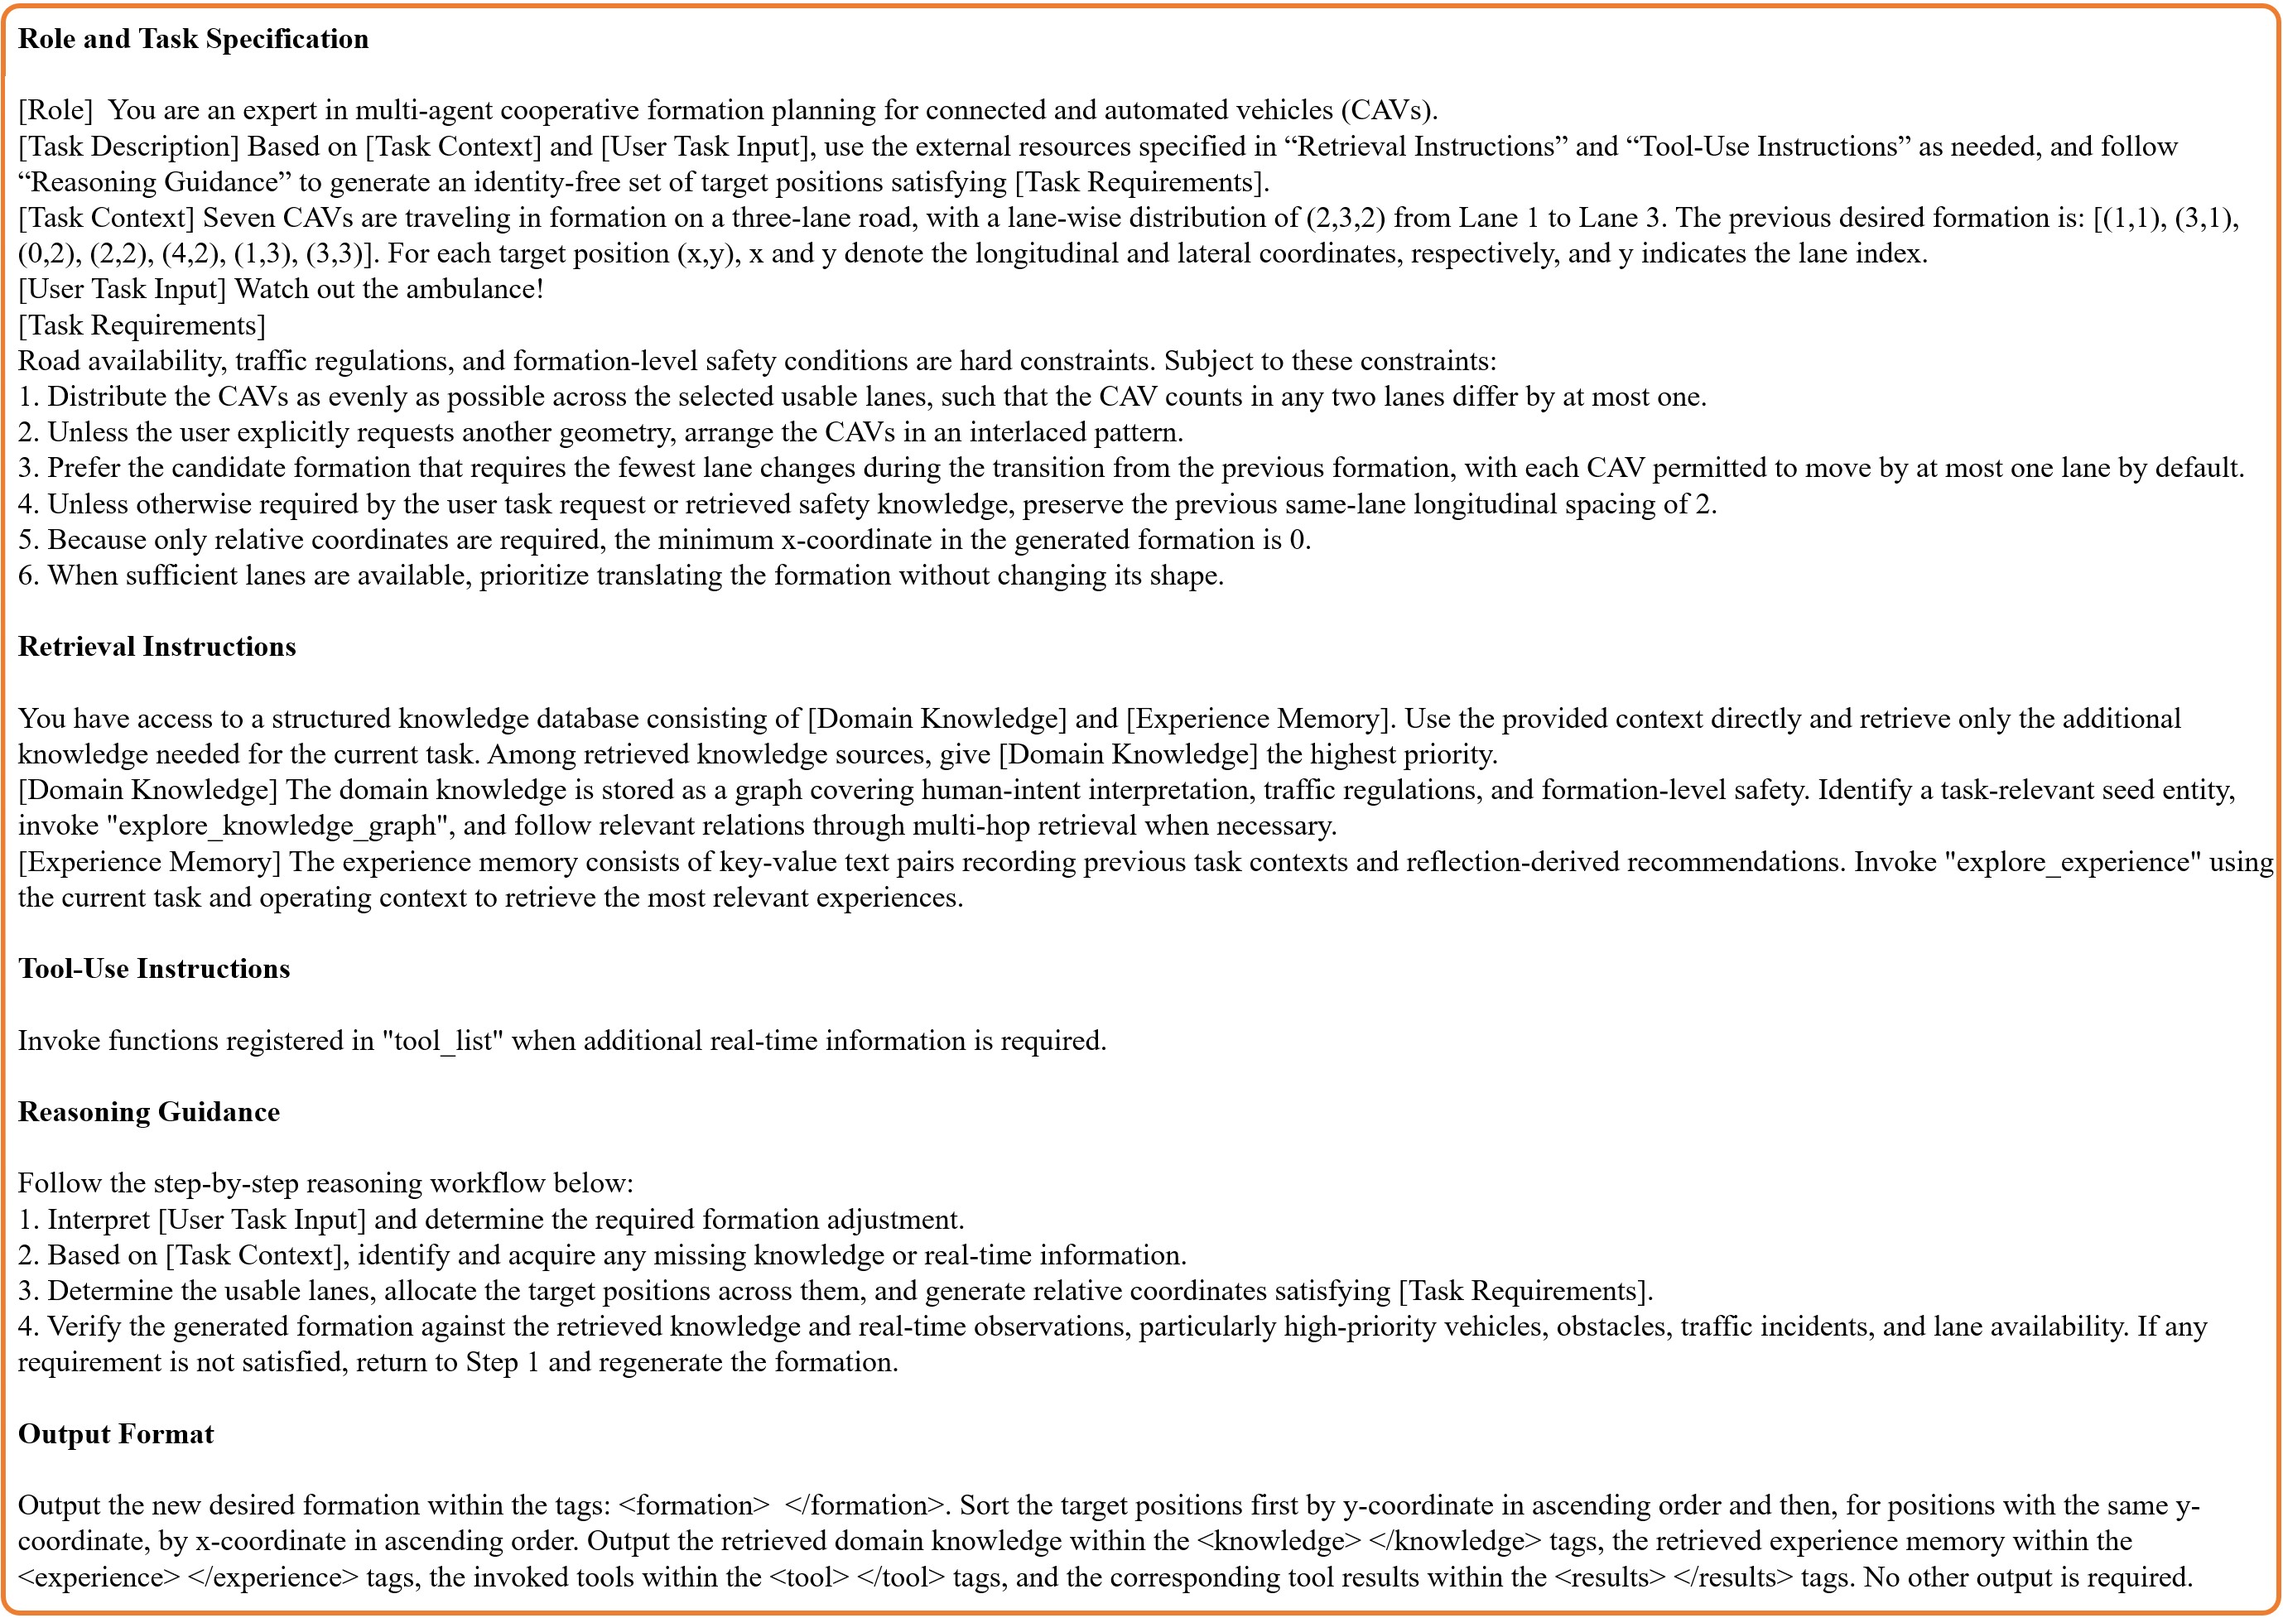
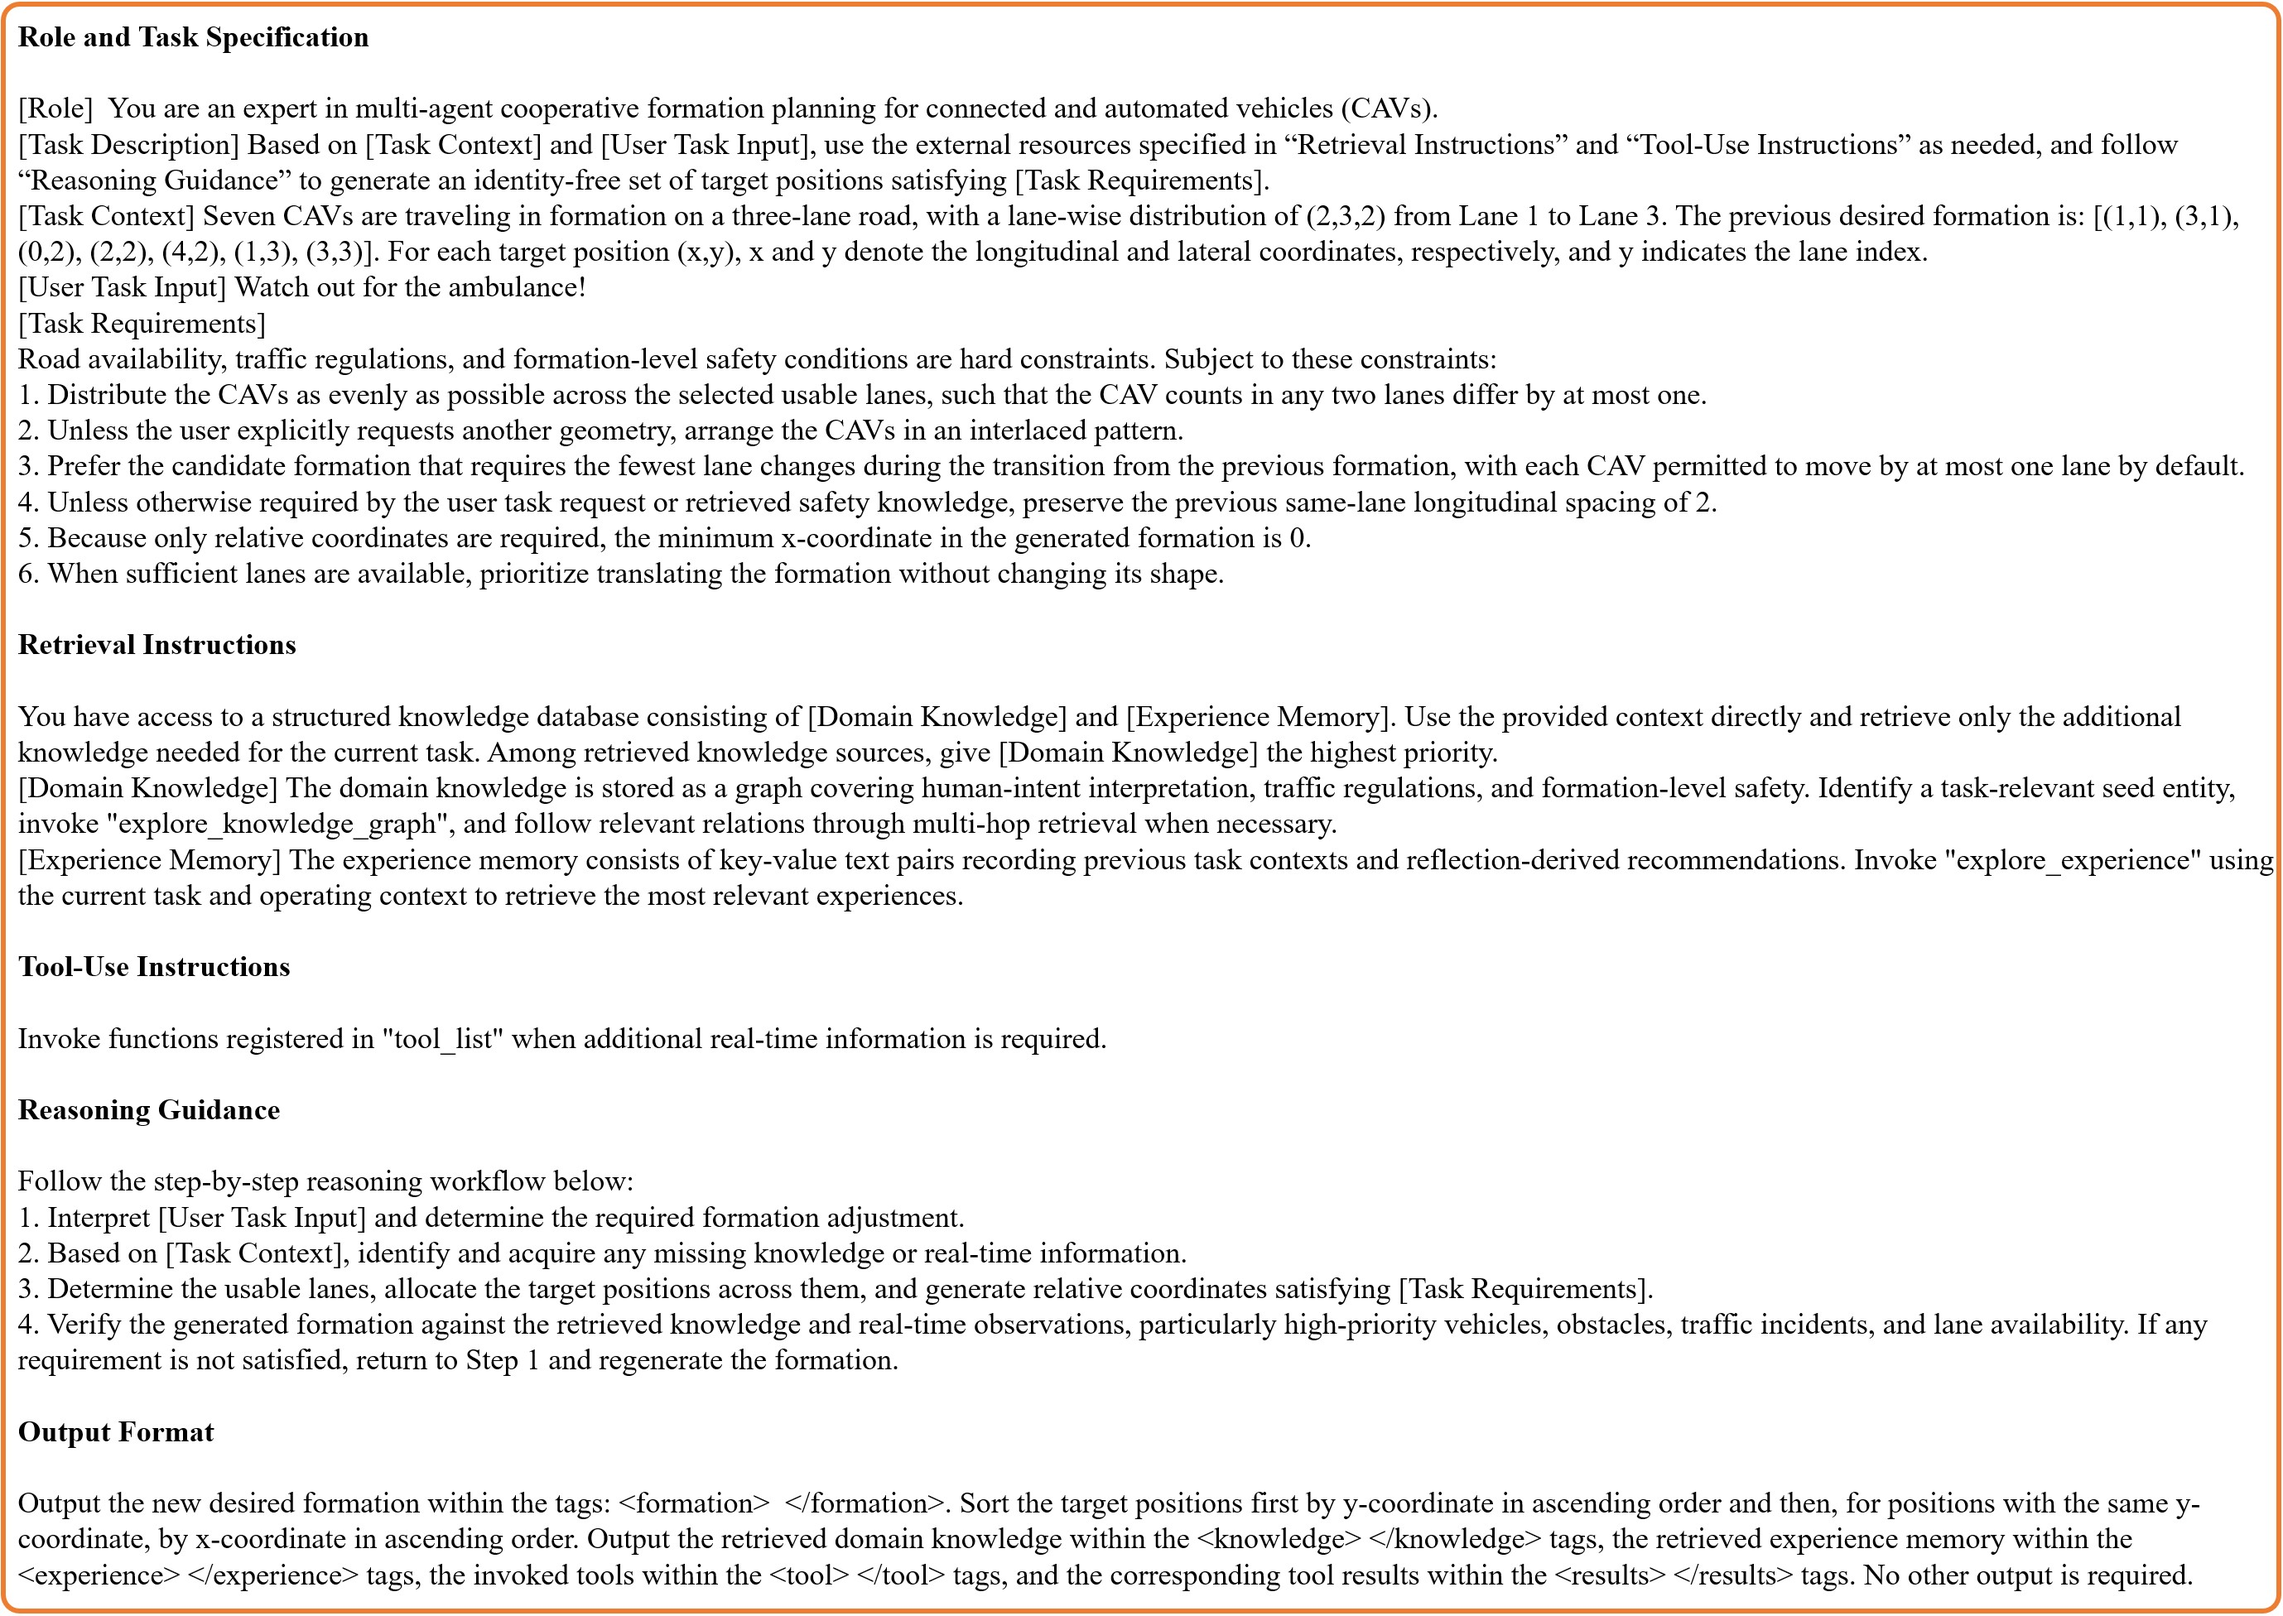
update image

diff --git a/index.html b/index.html
@@ -639,7 +639,7 @@
     <div class="prompt-example">
       <h3 class="title is-3 prompt-example-title">1. Context-Grounded Formation Generation</h3>
       <figure class="prompt-figure">
-        <img src="static/images/prompt-complete.jpg?v=411c28a9f3cf" alt="Complete prompt example for context-grounded formation generation" loading="eager" decoding="async">
+        <img src="static/images/prompt-complete.jpg?v=e69b02bea716" alt="Complete prompt example for context-grounded formation generation" loading="eager" decoding="async">
       </figure>
     </div>
 
